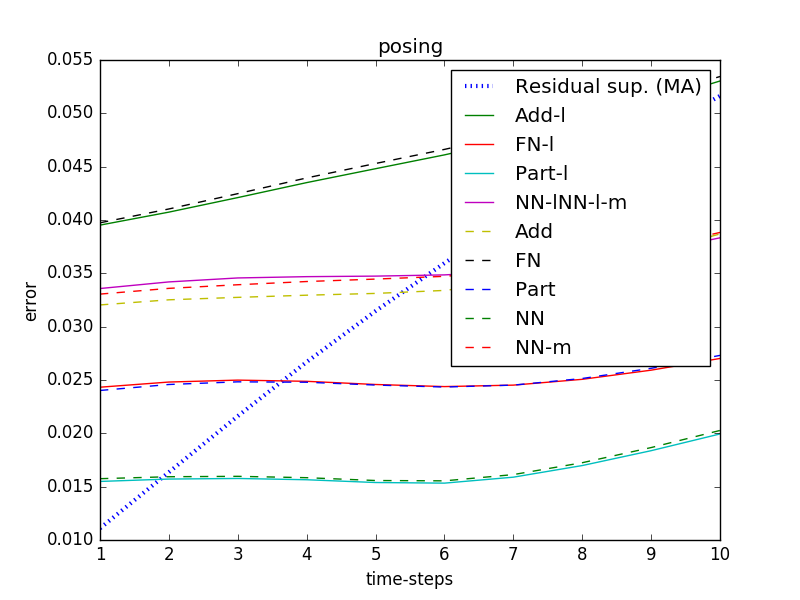
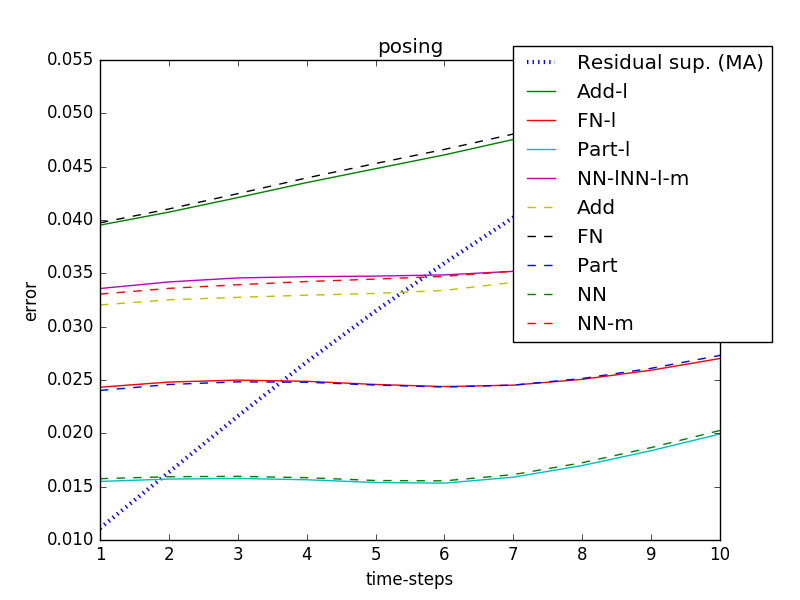
f

Changed region(s): [[0.5625, 0.06, 0.9688, 0.63]]

diff --git a/RNN/utils/metric_baselines.py b/RNN/utils/metric_baselines.py
@@ -146,7 +146,7 @@ def plot_results_npy(from_path, npy_files_dirs, method_names):
 			else:
 				plt.plot(range(1,t+1), np.mean(score, axis=0), label=method_names[i])
 
-		plt.legend()
+		plt.legend(bbox_to_anchor=(1.1, 1.05))
 		plt.xlabel('time-steps')
 		plt.ylabel('error')
 		plt.title(basename)
